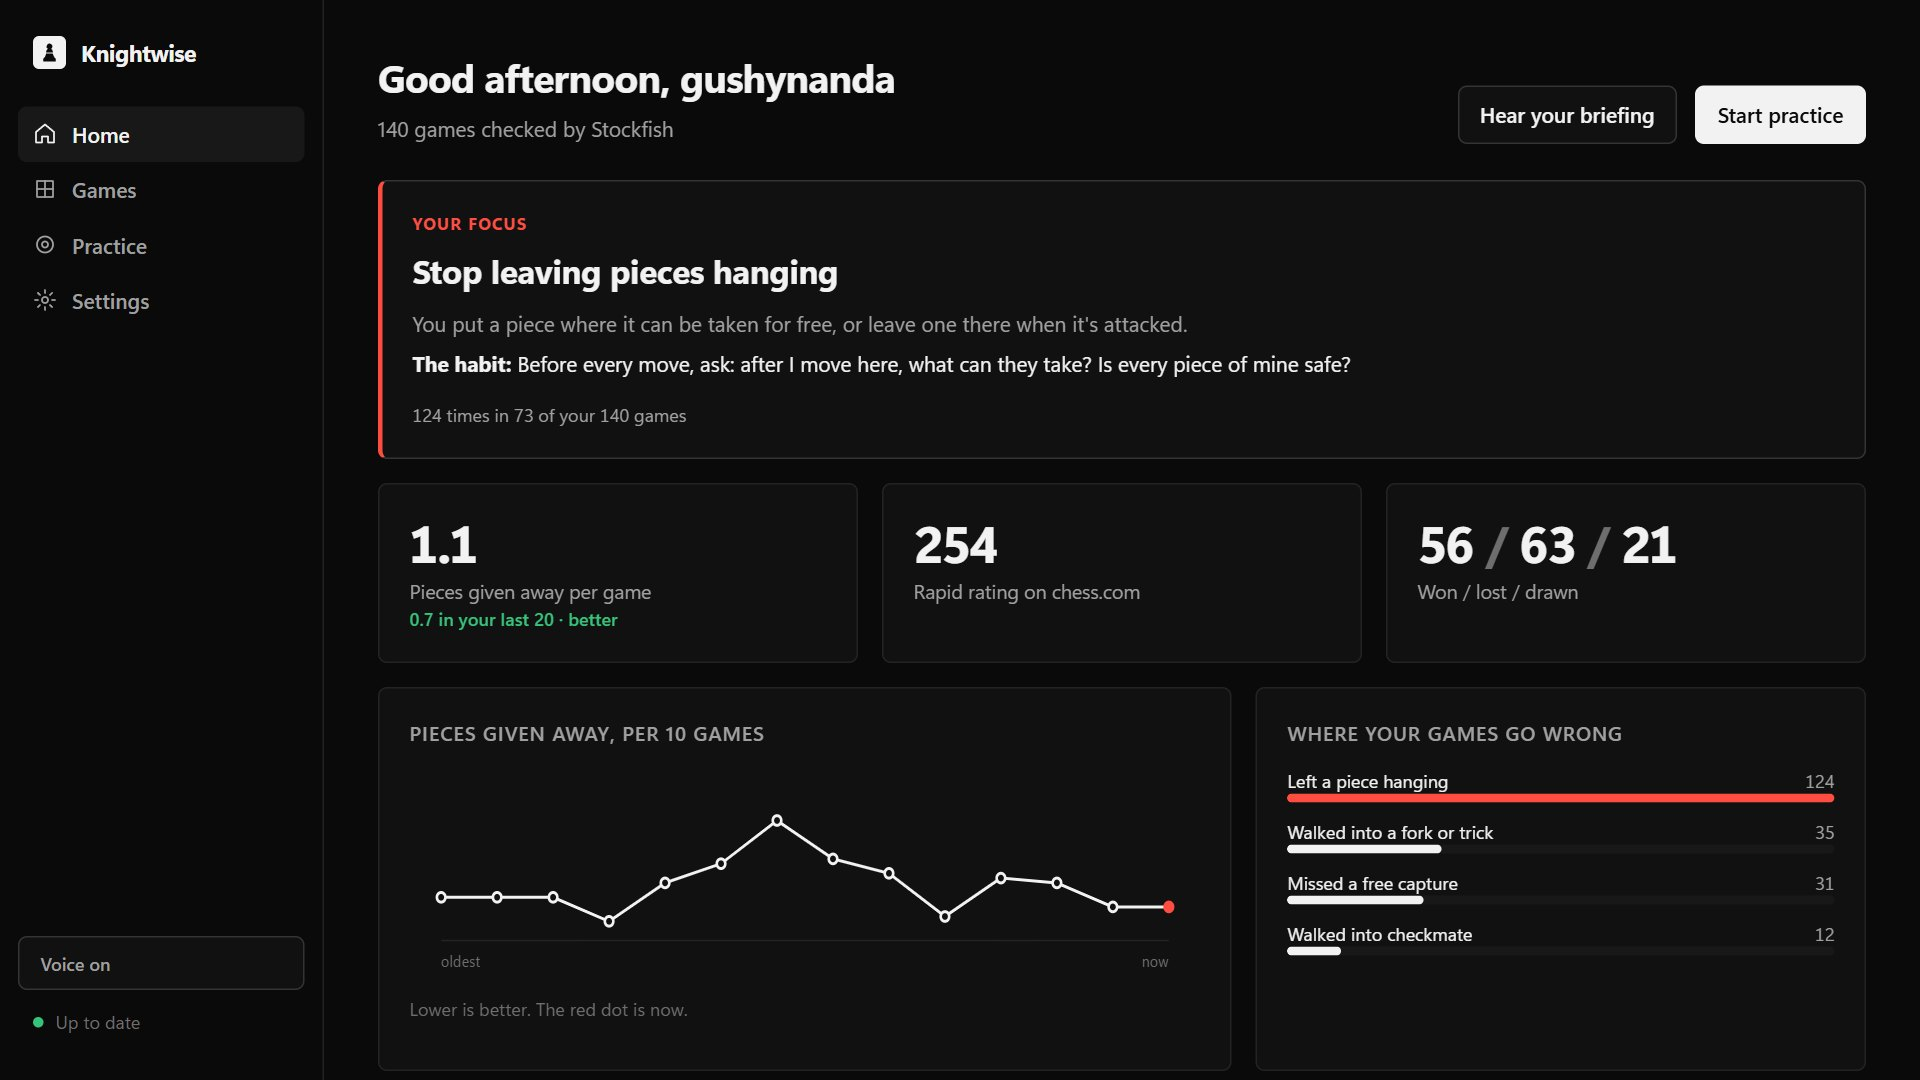
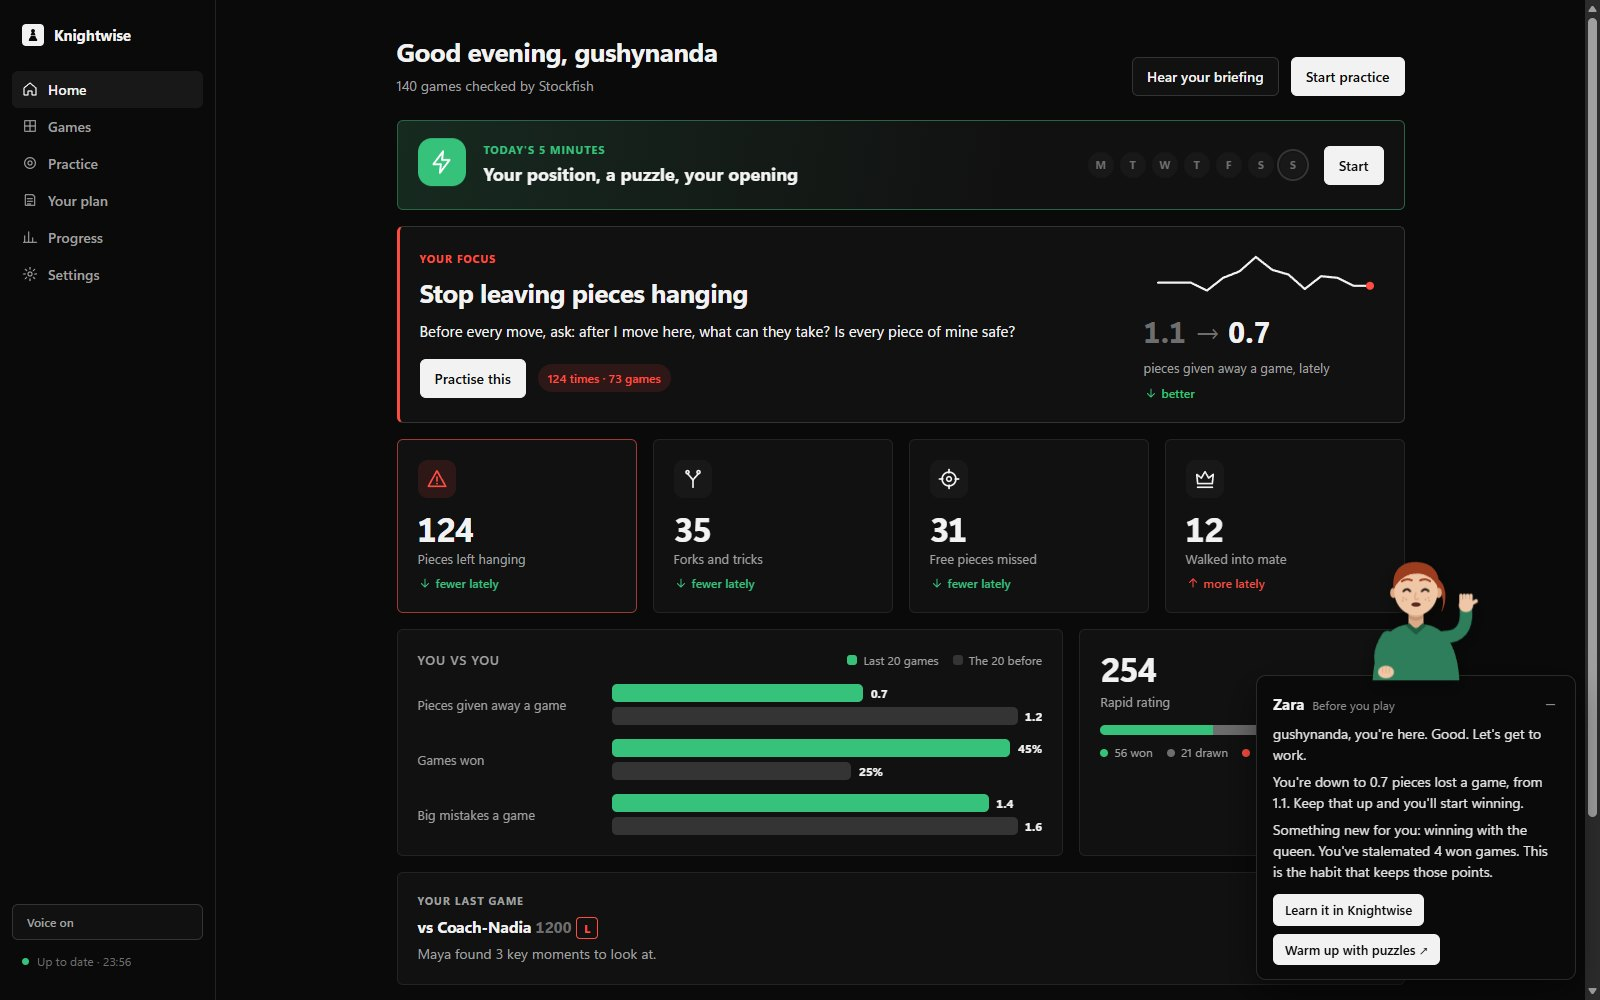
README: what you get free, honest numbers from real games, how it works, what it doesn't do; new screenshots

diff --git a/README.md b/README.md
@@ -1,20 +1,69 @@
+<div align="center">
+
+<img src="installer/msix/Assets/Square150x150Logo.scale-200.png" width="110" alt="Knightwise logo">
+
 # Knightwise
 
-<img src="installer/msix/Assets/Square150x150Logo.scale-200.png" width="96" alt="Knightwise logo">
+### A chess coach that sits beside you on chess.com.
 
-A free, open-source chess coach that learns how **you** play on chess.com, finds the habits that lose you
-games, and trains you out of them, one or two things at a time, at your level.
+It reads your real games, finds the habits that lose them, and trains you out of them,
+one thing at a time, at your level. Free, open source, and it runs on your own PC.
 
-> **Fair play:** the coach is completely off during any game against a real person. No hints, no arrows,
-> no reading the board. It only works on finished games, analysis, puzzles and lessons.
+**30,000 puzzles** · **3,865 named openings** · **every move you played checked by Stockfish** · **4 coaches with their own voices**
 
-![The Knightwise welcome: a 3D antique chess set replaying the Opera Game](docs/screenshots/welcome.jpg)
+No account · no ads · no subscription · your games stay on your computer
 
-| Your review: what you played (red) and what was better (green) | Home: your one focus right now |
+*Microsoft Store: private beta now, public release coming. Windows 10 and 11.*
+
+</div>
+
+![Arjun, the puzzle coach, on chess.com's puzzle page](docs/screenshots/on-chesscom.jpg)
+
+> **Fair play is built in, not bolted on.** During any game against a real person the coaches are gone:
+> no hints, no arrows, nothing reads the board. They only work on finished games, puzzles, lessons and your own practice.
+
+## What you get, free
+
+| | |
 |---|---|
-| ![Game review with arrows](docs/screenshots/review.jpg) | ![Home screen](docs/screenshots/home.jpg) |
+| **Your games, checked move by move.** Every move you played on chess.com is checked by Stockfish. Knightwise sorts the mistakes into the habits behind them, like pieces left hanging or walking into forks, and counts them. | ![Home](docs/screenshots/home.jpg) |
+| **Review with arrows, on chess.com itself.** Your key moments get labelled arrows: what you played, what was better and their reply, on your own board or on chess.com's. Then **Try it again** turns any of those moments into a puzzle. | ![Review](docs/screenshots/review.jpg) |
+| **Today's 5 minutes.** One position from your own games, one puzzle on today's idea and the first moves of your opening. The streak is gentle: one missed day is forgiven, and nobody scolds you. | ![Today's 5 minutes](docs/screenshots/daily.jpg) |
+| **Four coaches, nothing to set up.** Maya reviews your games, Arjun runs puzzles and practice, Zara gets you ready to play, and Viktor tracks your progress. They are drawn characters with 12 gestures and moods: worried when you go wrong, cheering when you get it. They talk with their own voices, made on your PC. | ![Your plan](docs/screenshots/ai-card.jpg) |
+| **Progress you can see.** You vs you: your last 20 games against the 20 before. Viktor writes the story of your week, which you can save as a picture. Badges, Bronze to Gold, are earned only in real games. | ![Progress](docs/screenshots/progress.jpg) |
+| **Your opening tree.** Your first moves of every game as White and Black, with your score on each branch. A note marks the branch that costs you games, and your plan suggests an opening that suits you. | ![Opening tree](docs/screenshots/openings.jpg) |
 
-**Get it:** Microsoft Store, private beta now (Windows 10/11, free). Public release later.
+**Something new, only when you need it.** The coaches bring a new tactic, opening or idea when your games
+show a reason, like a stalemated win, a new kind of mistake or a losing streak, and one at a time.
+The rest of the time they keep you on the one habit that matters most right now.
+
+**Talk with your coaches, also free.** Add a free key from Google Gemini or Groq and they answer your
+questions in their own words. The engine still decides every move; the AI only explains it. Without a key the
+coaches use their written sentences, and if the AI is busy they still answer. The chat AI runs at the provider you pick, not on your PC.
+
+## Honest numbers
+
+From the developer's own 140 checked chess.com games, nothing hand-picked:
+
+- **Pieces given away a game:** 1.2 in the 20 games before, then **0.7** in the last 20.
+- **Games won:** 25% in the 20 games before, then **45%** in the last 20.
+- **Losses by checkmate:** 35 of the first 63 losses ended in checkmate, which is why "check their checks" is one of the habits it trains.
+
+Your numbers will be different. That's the point: everything is worked out from **your** games.
+
+## How it works
+
+1. **Type your chess.com username.** There's no password, because only your public games are read.
+2. **Knightwise checks your games** with Stockfish on your PC, which takes about 2 minutes the first time, and keeps checking new ones by itself.
+3. **Play on chess.com as usual.** After a game, the coaches show up with what mattered and what to practise next.
+
+![The welcome: a 3D antique chess set replaying the Opera Game](docs/screenshots/welcome.jpg)
+
+## What it doesn't do
+
+- It never helps during a game against a real person, and it never moves pieces or clicks for you.
+- It doesn't play against you; chess.com has bots for that.
+- It needs Windows for the app. The chess.com coaches need Chrome or Edge with the Knightwise extension.
 
 ## Status: private beta
 
